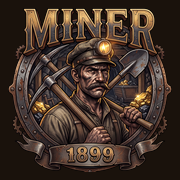
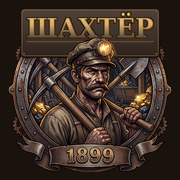
Скриншоты 1.8.0, логотип «Шахтёр 1899»

diff --git a/index.html b/index.html
@@ -3,7 +3,7 @@
 <head>
 <meta charset="UTF-8">
 <meta name="viewport" content="width=device-width, initial-scale=1.0">
-<title>Miner 1899 — 2D-шахтёр в браузере</title>
+<title>Шахтёр 1899 — 2D-игра про шахтёра в браузере и Telegram</title>
 <meta name="description" content="Копай на 788 метров вглубь: четыре биома, руда, лавка, лестницы и подземные твари. Играется в браузере на компьютере и телефоне, ничего не нужно устанавливать.">
 <meta name="theme-color" content="#1A120C">
 <link rel="icon" type="image/png" href="assets/favicon.png">
@@ -12,10 +12,10 @@
 <!-- Превью ссылки в Telegram, ВКонтакте и т.п.
      Адрес картинки должен быть полным. Если переименуешь репозиторий — поправь адрес здесь. -->
 <meta property="og:type" content="website">
-<meta property="og:title" content="Miner 1899">
+<meta property="og:title" content="Шахтёр 1899">
 <meta property="og:description" content="2D-шахтёр в браузере: 788 метров вглубь, четыре биома, руда, лавка и подземные твари.">
-<meta property="og:image" content="https://z0rd4n0v1ch.github.io/1899/assets/og.jpg">
-<meta property="og:url" content="https://z0rd4n0v1ch.github.io/1899/">
+<meta property="og:image" content="https://z0rd4n0v1ch.github.io/1899.github.io/assets/og.jpg">
+<meta property="og:url" content="https://z0rd4n0v1ch.github.io/1899.github.io/">
 <meta name="twitter:card" content="summary_large_image">
 
 <style>
@@ -165,7 +165,7 @@
 <header class="wrap hero">
     <picture>
         <source srcset="assets/logo.webp" type="image/webp">
-        <img src="assets/logo.png" alt="Miner 1899" class="logo" width="600" height="616">
+        <img src="assets/logo.png" alt="Шахтёр 1899" class="logo" width="600" height="618">
     </picture>
     <p class="tagline">Копай вниз. Чем глубже — тем дороже руда и тем опаснее шахта.</p>
     <p class="subline">2D-игра про шахтёра: 788 метров вглубь, четыре биома, лавка и подземные твари.</p>
@@ -179,8 +179,8 @@
 
 <div class="wide shot">
     <figure>
-        <img src="img/overview.webp" alt="Поверхность с лавкой скупщика и панелью игрока" width="1366" height="700" loading="lazy">
-        <figcaption>Поверхность: лавка скупщика и панель с рюкзаком, деньгами и инструментами.</figcaption>
+        <img src="img/overview.webp" alt="Игра: слева сохранения, радио и видео, в центре шахта, справа статистика" width="1366" height="700" loading="lazy">
+        <figcaption>Слева — сохранения, радио, видео и настройки, в центре — шахта, справа — рюкзак, монеты, инструменты и персонаж.</figcaption>
     </figure>
 </div>
 
@@ -239,7 +239,7 @@
 
 <div class="wide shot">
     <figure>
-        <img src="img/biomes.webp" alt="Четыре биома шахты" width="830" height="624" loading="lazy">
+        <img src="img/biomes.webp" alt="Четыре биома шахты" width="750" height="562" loading="lazy">
         <figcaption>Четыре пласта — при входе в каждый появляется табличка с его рудой и опасностями.</figcaption>
     </figure>
 </div>
@@ -253,6 +253,7 @@
         <li><b>Подземные твари</b><span>Крысы-воришки, летучие мыши, пауки и саламандры. Их можно бить киркой, а лампа отпугивает мышей и пауков.</span></li>
         <li><b>Две лампы</b><span>Открытая светит ярче, но гаснет при падении и поджигает рудничный газ. Закрытая лампа Дэви — безопасная, как у настоящих шахтёров.</span></li>
         <li><b>Персонаж</b><span>Сила и выносливость растут от дела: таскаешь руду — крепнешь, копаешь — выносливее. Тоники из лавки поднимают уровень.</span></li>
+        <li><b>Telegram</b><span>Игру можно открыть прямо из Telegram — как мини-приложение, во весь экран.</span></li>
         <li><b>Канарейка</b><span>Как у настоящих шахтёров: тревожится, если рядом рудничный газ.</span></li>
         <li><b>Радио и видео</b><span>Добавь свои онлайн-станции и ролики с YouTube, RuTube или VK — и слушай или смотри прямо в игре, хоть на граммофоне и в телевизоре. Подключается к площадке, только когда включишь сам.</span></li>
     </ul>
@@ -260,8 +261,15 @@
 
 <div class="wide shot">
     <figure>
-        <img src="img/creatures.webp" alt="Крыса, летучие мыши, паук и саламандра" width="1128" height="720" loading="lazy">
+        <img src="img/creatures.webp" alt="Крыса, летучие мыши, паук и саламандра" width="1016" height="652" loading="lazy">
         <figcaption>Крыса с украденным золотом, летучие мыши, паук в свете лампы, саламандра в лаве.</figcaption>
+    </figure>
+</div>
+
+<div class="wrap shot">
+    <figure>
+        <img src="img/character.webp" alt="Окно персонажа: сила и выносливость" width="600" height="398" loading="lazy">
+        <figcaption>Персонаж: уровни, очки и тоники — сколько уровней уже можно поднять.</figcaption>
     </figure>
 </div>
 
